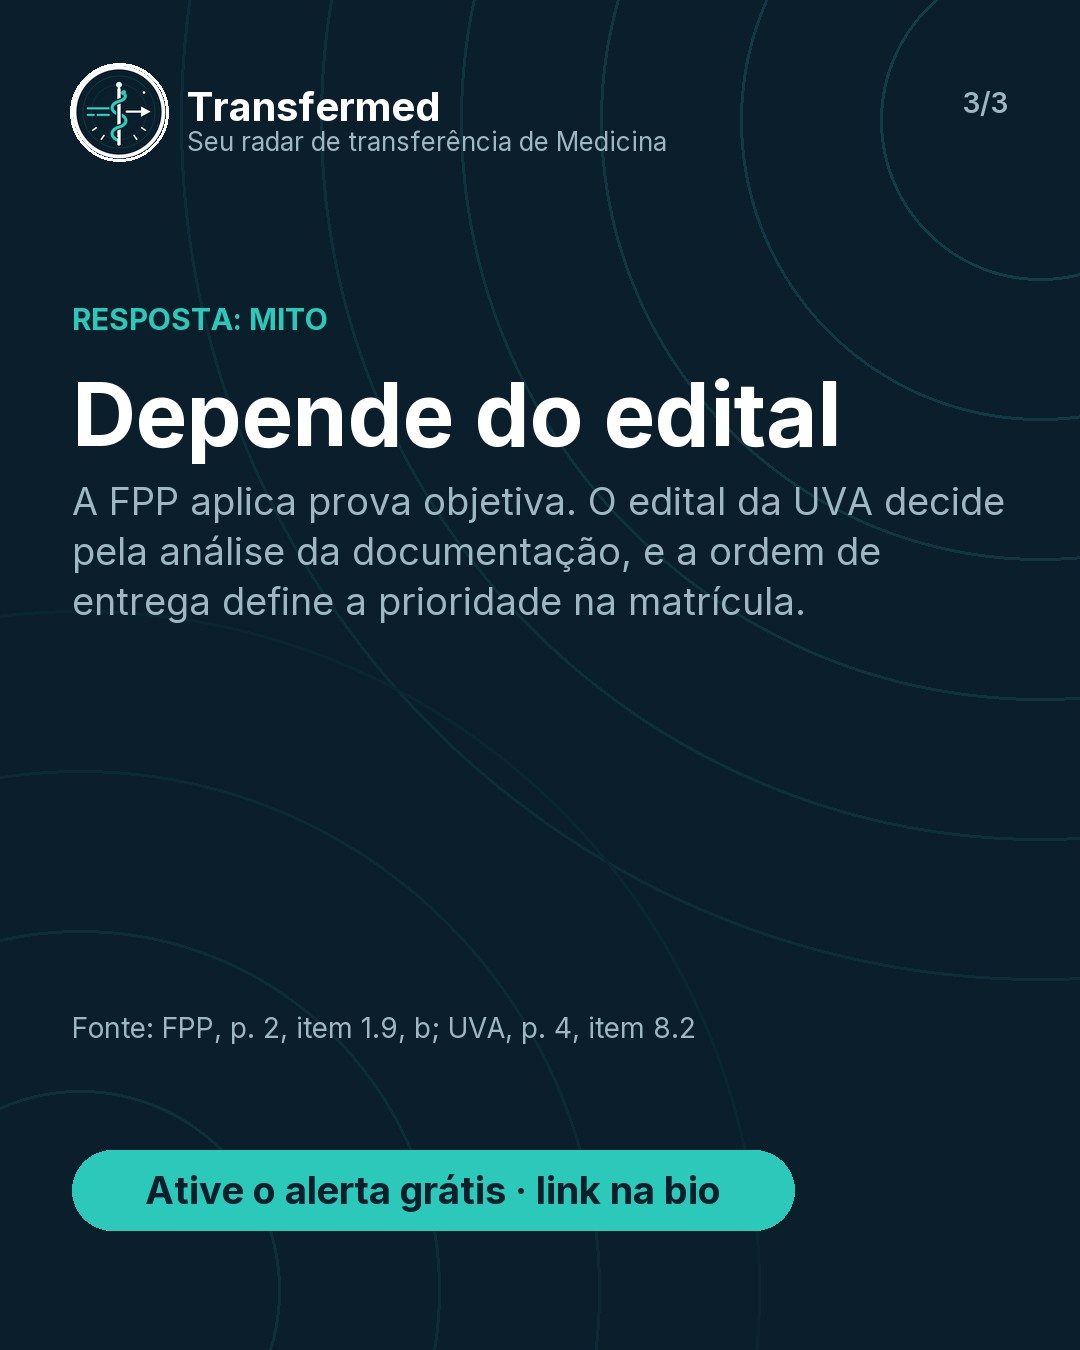
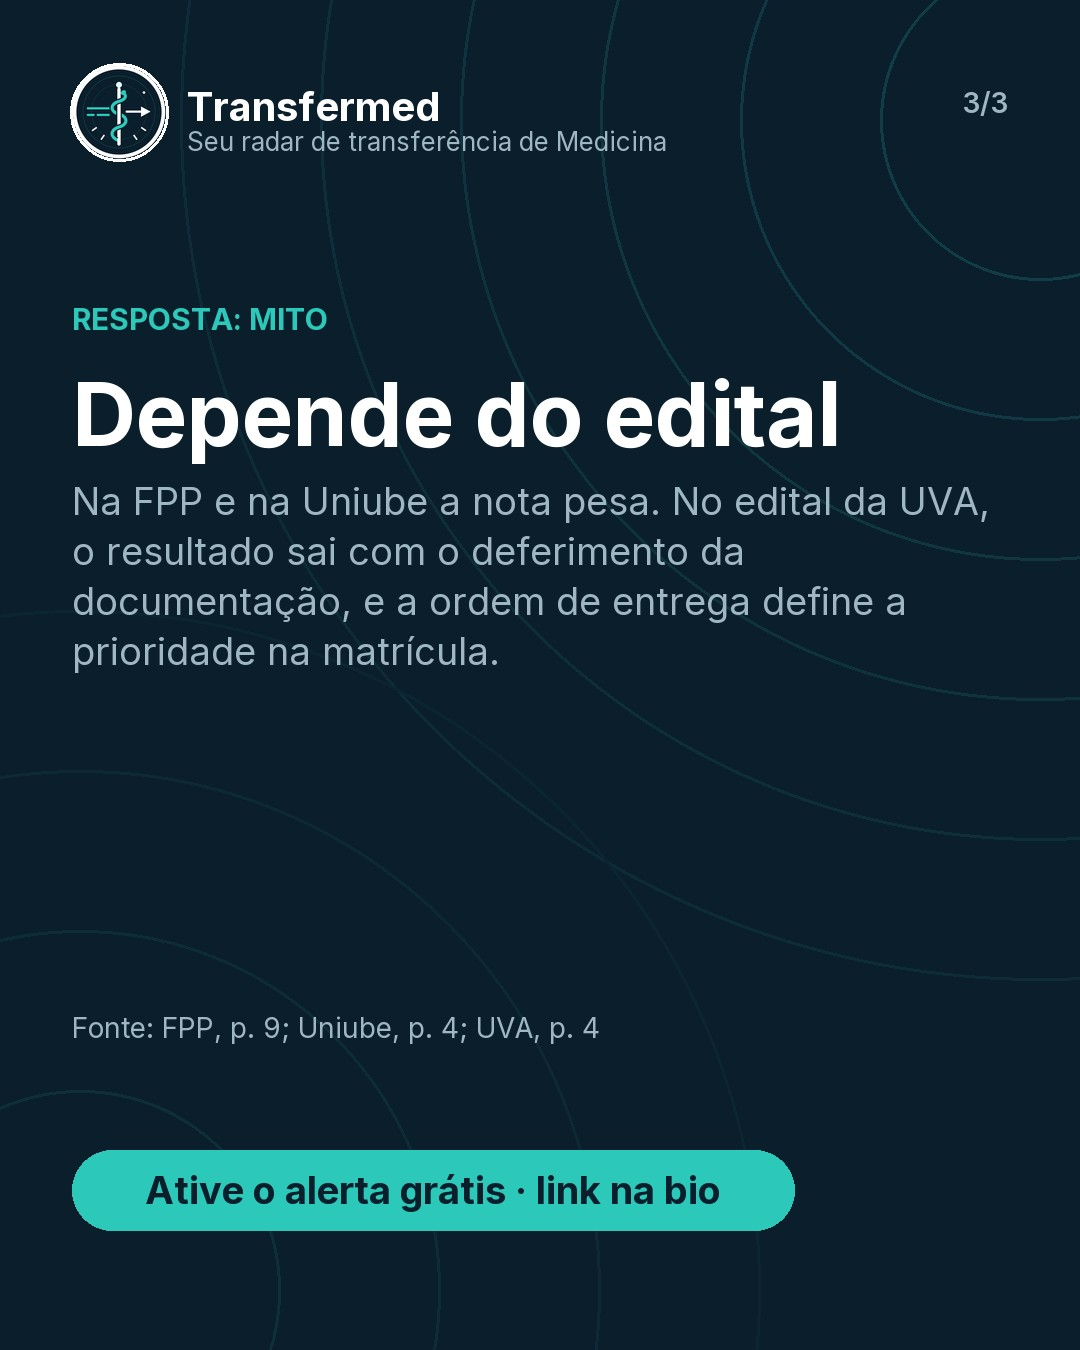
Instagram: gancho sem número vale se for pergunta ou fato com ponto de apoio; 14/11 vira 'Nota alta decide nestes 3 editais?' e 21/11 'Toda prova é presencial?' (UNIFIPA p.5, IDOMED p.7)

Changed region(s): [[0.0611, 0.3422, 0.9167, 0.4978], [0.2444, 0.7467, 0.6417, 0.7778]]

diff --git a/instagram_pilares.py b/instagram_pilares.py
@@ -268,28 +268,31 @@ def pauta_numeros_unifaa(editais, facs, hoje):
                    [(e, sigla, "vagas", "1"), (e, sigla, "raio_x_aprovados", "1")], facs, gancho) | {"pauta": "Raio-X UNIFAA (conferido 12/11)"}
 
 
-def pauta_mito_prova_60(editais, facs, hoje):
-    """Sábado 14/11: "Prova de 60 questões em toda faculdade?" (FPP p. 2, item 1.9, b; UVA p. 4, itens 7.1 e 8.2; lidos nos PDFs em 11 e 12/11/2026)."""
-    fpp, uva = _edital(editais, "528d5ef7e915"), _edital(editais, "1e0e3121b570")
-    _exige(fpp["status"] == "ok" and uva["status"] == "ok" and "60 questões" in fpp["criterio_selecao"] and "deferimento" in uva["criterio_selecao"], "FPP/UVA: critério de seleção mudou")
-    gancho = "Prova de 60 questões em toda faculdade?"
+def pauta_mito_presencial(editais, facs, hoje):
+    """Sábado 21/11: "Toda prova de transferência é presencial?" (UNIFIPA p. 5, item 7.2; IDOMED p. 7, item 6.12; lidos nos PDFs em 12/11/2026)."""
+    fip, ido = _edital(editais, "a7c31a4afe95"), _edital(editais, "6ff70fc5f2f6")
+    _exige(fip["status"] == "ok" and ido["status"] == "ok" and fip["situacao"] == ido["situacao"] == "aberto"
+           and "prova objetiva (20 questões)" in fip["criterio_selecao"] and "prova oral on-line" in ido["criterio_selecao"],
+           "UNIFIPA/IDOMED: o critério de seleção mudou")
+    gancho = "Toda prova de transferência é presencial?"
     telas = [
-        _capa("Mito ou fato?", gancho, "Dois editais abertos, dois jeitos de selecionar os candidatos. Arraste para ver o que cada um prevê e qual é a resposta.", cor="ambar"),
+        _capa("Mito ou fato?", gancho, "Dois editais abertos, duas provas bem diferentes. Arraste para ver onde cada uma é feita e qual é a resposta.", cor="ambar"),
         {"tipo": "cartoes", "cor": "ambar", "kicker": "O que dizem dois editais abertos", "cartoes": [
-            _cartao("FPP · Curitiba (PR)", "Etapa classificatória: prova objetiva presencial", "60 questões", "edital, p. 2, item 1.9, b"),
-            _cartao("UVA · Rio de Janeiro (RJ)", "Resultado imediato ao deferimento da documentação; o edital não prevê prova", "Sem prova", "edital, p. 4, item 7.1")]},
-        _capa("Resposta: mito", "Depende do edital", "A FPP aplica prova objetiva. O edital da UVA decide pela análise da documentação, e a ordem de entrega define a prioridade na matrícula.",
-              "Fonte: FPP, p. 2, item 1.9, b; UVA, p. 4, item 8.2", botao=BOTAO, cor="agua"),
+            _cartao("UNIFIPA · Catanduva (SP)", "Prova objetiva de 20 questões, aplicada no Campus Sede, em Catanduva", "No campus", "edital, p. 5, item 7.2"),
+            _cartao("IDOMED · Alagoinhas (BA)", "Prova oral de nivelamento, on-line, para quem tem carga horária do 5º período em diante", "On-line", "edital, p. 7, item 6.12")]},
+        _capa("Resposta: mito", "Depende do edital", "A UNIFIPA aplica a prova no campus, em Catanduva. No edital da IDOMED, a prova oral de nivelamento é on-line.",
+              "Fonte: UNIFIPA, p. 5, item 7.2; IDOMED, p. 7, item 6.12", botao=BOTAO, cor="agua"),
     ]
-    corpo = ("Mito: nem toda transferência em Medicina tem prova. O edital da FPP (Curitiba/PR) prevê prova objetiva classificatória, de 60 questões (p. 2, item 1.9, b). "
-             "Já o edital da UVA (Rio de Janeiro/RJ) não prevê prova: o resultado é imediato ao deferimento da documentação (p. 4, item 7.1), e a ordem de entrega dos documentos "
-             "define a prioridade na matrícula (p. 4, item 8.2).\n\n"
-             "O critério muda de edital para edital: leia o da faculdade onde você vai se inscrever.")
-    fontes = ["- FPP (Curitiba/PR): `528d5ef7e915`, prova objetiva de 60 questões, classificatória: p. 2, item 1.9, b",
-              "- UVA (Rio de Janeiro/RJ): `1e0e3121b570`, resultado imediato ao deferimento da documentação (item 7.1) e prioridade pela ordem de entrega (item 8.2): p. 4;",
-              "  o PDF retificado de 09/11/2026 só cita \"prova\" no sentido de prova do ENEM (p. 4, itens 6.2 e 6.6), nenhuma prova do processo seletivo"]
-    return _montar("mito-ou-fato", telas, corpo, ["FPP", "UVA"], [], fontes,
-                   [(fpp, "FPP", "criterio_selecao", "2"), (uva, "UVA", "criterio_selecao", "4")], facs, gancho) | {"pauta": "BANCO #11 (conferida em 11/11)"}
+    corpo = ("Mito: nem toda prova de transferência em Medicina é feita no campus. No edital da UNIFIPA (Catanduva/SP), a prova objetiva, de 20 questões, é aplicada no Campus Sede, "
+             "em Catanduva (p. 5, item 7.2). No edital da IDOMED (Alagoinhas/BA), quem tem carga horária compatível com o 5º período em diante, se houver vaga nesses períodos, "
+             "faz uma prova oral de nivelamento, realizada de forma on-line (p. 7, item 6.12).\n\n"
+             "Leia no edital da faculdade onde você vai se inscrever como e onde a prova é feita.")
+    fontes = ["- UNIFIPA (Catanduva/SP): `a7c31a4afe95`, prova objetiva de 20 questões de múltipla escolha (item 7.5, p. 6), aplicada em Catanduva, no Campus Sede: p. 5, item 7.2",
+              "- IDOMED (Alagoinhas/BA): `6ff70fc5f2f6`, prova oral de nivelamento, de forma on-line, para quem tem carga horária compatível com o 5º período em diante, caso haja previsão de vagas "
+              "para esses períodos na unidade: p. 7, item 6.12 (conteúdo: Semiologia/Propedêutica Médica, Anexo 4)",
+              "  o mesmo edital unificado vale para IDOMED Juazeiro (BA); o post cita só Alagoinhas"]
+    return _montar("mito-ou-fato", telas, corpo, ["UNIFIPA", "IDOMED"], [], fontes,
+                   [(fip, "UNIFIPA", "criterio_selecao", "5"), (ido, "IDOMED", "criterio_selecao", "7")], facs, gancho) | {"pauta": "BANCO #11 (conferida em 12/11)"}
 
 
 def pauta_exterior_nem_todo(editais, facs, hoje):
@@ -316,10 +319,10 @@ def pauta_exterior_nem_todo(editais, facs, hoje):
 
 
 # data -> pauta, para os dias fora da semana de segunda a domingo montada acima (13 a 15/11, pedido de 12/11/2026)
-PAUTAS_DO_DIA = {"2026-11-13": pauta_numeros_unifaa, "2026-11-14": pauta_mito_prova_60, "2026-11-15": pauta_exterior_nem_todo}
+PAUTAS_DO_DIA = {"2026-11-13": pauta_numeros_unifaa, "2026-11-14": pauta_mito_prova, "2026-11-15": pauta_exterior_nem_todo}
 
 
-PAUTAS = {1: pauta_armadilha_fpp, 2: pauta_processo_periodo, 3: pauta_curiosidade_unifaccamp, 4: pauta_numeros_unicamp, 5: pauta_mito_prova, 6: pauta_exterior_unoeste}
+PAUTAS = {1: pauta_armadilha_fpp, 2: pauta_processo_periodo, 3: pauta_curiosidade_unifaccamp, 4: pauta_numeros_unicamp, 5: pauta_mito_presencial, 6: pauta_exterior_unoeste}
 
 
 def revisar(r, editais, facs, dia_):

diff --git a/instagram_checagem.py b/instagram_checagem.py
@@ -17,7 +17,8 @@ Devolve a lista de problemas. Lista vazia = pode ir ao ar. Qualquer problema = o
 (e) aspas ou "O edital diz/afirma/exige..." sem o texto literal do PDF (o post só pode citar entre aspas um trecho que venha em `literais`:
     [{"edital", "trecho", "pagina"}], copiado do PDF; os dados do projeto guardam resumos, não o texto literal, então o gerador nunca cita);
 (f) uma página única por fato (nada de "págs. 4, 5, 6, 8 e 9" nem "uma destas páginas");
-(g) o gancho (a chamada principal, `gancho`) traz o fato concreto (número, valor ou data), não "leia com atenção".
+(g) o gancho (a chamada principal, `gancho`) é específico, não "leia com atenção": pode ser sem número (12/11/2026), desde que seja uma pergunta ou um fato
+    concreto e traga um ponto de apoio medível: número, valor ou data; a sigla de uma faculdade dos `fatos`; ou um termo do edital (prova, nota, vaga, taxa, prazo...).
 
 Itens do privado/PADRAO_DE_QUALIDADE.md (seção 3) que dá para medir (10/11/2026); a data de publicação é `data` do post (às 12h) ou `hoje`:
 (P2) nenhum prazo citado vence antes de 48 h após a publicação;
@@ -47,6 +48,7 @@ PROIBIDOS = [
 ASPAS = re.compile(r"[“”\"«»]")
 ATRIBUICAO = re.compile(r"\bo\s+edital\s+(diz|afirma|exige|determina|estabelece|prev[eê]|informa|garante)\b", re.I)
 VARIAS_PAGINAS = re.compile(r"\bp[áa]gs?\.|\buma\s+(?:destas|dessas)\s+p[áa]ginas|\bp[áa]ginas?\s+\d+\s*(?:,|e)\s*\d", re.I)
+GANCHO_TERMO = re.compile(r"\b(prova|provas|nota|notas|vaga|vagas|taxa|taxas|prazo|prazos|edital|editais|inscri[cç][aã]o|per[ií]odo|semestre|hist[oó]rico|documentos?|exterior|resultado|matr[ií]cula)\b", re.I)
 GANCHO_VAGO = re.compile(r"\bleia\b|\bcom aten[cç][aã]o\b|\bdetalhes?\b|\bdescubra\b|\bconfira\b|\bfique (de )?olho\b|\barmadilha\b", re.I)
 
 
@@ -190,8 +192,10 @@ def checar(post, editais, facs, hoje, padrao=True):
     if not gancho:
         problemas.append("(g) o post não registra o gancho (chamada principal)")
     else:
-        if not re.search(r"\d", gancho):
-            problemas.append(f"(g) o gancho “{gancho}” não traz o fato concreto (número, valor ou data)")
+        ancora = re.search(r"\d", gancho) or GANCHO_TERMO.search(gancho) or any(
+            re.search(r"\b" + re.escape(f["faculdade"]) + r"\b", gancho, re.I) for f in fatos if f.get("faculdade"))
+        if not ancora:
+            problemas.append(f"(g) o gancho “{gancho}” não é específico: traga um número, valor, data, a faculdade ou um termo do edital (prova, nota, vaga, taxa, prazo...)")
         if GANCHO_VAGO.search(gancho):
             problemas.append(f"(g) o gancho “{gancho}” é genérico (“leia com atenção”, “detalhes”...): diga o fato")
     if not gancho and re.search(r"leia o edital com aten[cç][aã]o", todo, re.I):

diff --git a/tests/test_instagram_pilares.py b/tests/test_instagram_pilares.py
@@ -31,7 +31,8 @@ class PautasComDadosReais(unittest.TestCase):
         for k, fn in pil.PAUTAS.items():
             r = fn(self.editais, self.facs, SEMANA[k])
             self.assertLessEqual(len(r["gancho"].split()), 8, r["gancho"])   # contagem crua, como o P3 (R$ e valor são 2 palavras)
-            self.assertRegex(r["gancho"], r"\d")
+            if not r["gancho"].endswith("?"):   # sem número só como pergunta (decisão de 12/11/2026); a checagem (g) exige o ponto de apoio
+                self.assertRegex(r["gancho"], r"\d")
             self.assertNotRegex(" ".join(r["textos"]) + r["legenda"], r"[“”\"]", fn.__name__)
 
     def test_todo_fato_tem_pagina_unica_e_toda_tela_com_dado_tem_rodape_de_fonte(self):
@@ -74,6 +75,24 @@ class PautasComDadosReais(unittest.TestCase):
         self.assertEqual({f["edital"] for f in r["fatos"]}, {"528d5ef7e915", "2a698cddcbf7", "1e0e3121b570"})
         self.assertIn("Depende do edital", " ".join(r["textos"]))
         self.assertIn("só entra quem tem nota alta", " ".join(r["textos"]).lower())   # a pergunta do pedido continua na capa
+
+    def test_mito_da_prova_presencial_cita_unifipa_p5_e_idomed_p7_e_nao_repete_faculdades_vizinhas(self):
+        r = pil.pauta_mito_presencial(self.editais, self.facs, SEMANA[5])
+        self.assertEqual({(f["faculdade"], f["pagina"]) for f in r["fatos"]}, {("UNIFIPA", "5"), ("IDOMED", "7")})
+        self.assertEqual(r["gancho"], "Toda prova de transferência é presencial?")
+        self.assertEqual(ck.checar(r, self.editais, self.facs, SEMANA[5]), [])
+        vizinhos = {"UNICAMP", "FPP", "UNOESTE"}   # sexta 20/11 e domingo 22/11
+        self.assertFalse(vizinhos & {f["faculdade"] for f in r["fatos"]})
+        eds = copy.deepcopy(self.editais)
+        next(e for e in eds if e["id"] == "6ff70fc5f2f6")["criterio_selecao"] = "análise do histórico"
+        with self.assertRaises(pil.PautaInvalida):
+            pil.pauta_mito_presencial(eds, self.facs, SEMANA[5])
+
+    def test_dia_14_usa_o_mito_da_nota_alta_e_o_sabado_21_o_da_prova_presencial(self):
+        self.assertIs(pil.PAUTAS_DO_DIA["2026-11-14"], pil.pauta_mito_prova)
+        self.assertIs(pil.PAUTAS[5], pil.pauta_mito_presencial)
+        r = pil.pauta_mito_prova(self.editais, self.facs, "2026-11-14")
+        self.assertEqual(r["gancho"], "Nota alta decide nestes 3 editais?")
 
     def test_unicamp_nao_afirma_que_so_transferencia_externa_e_diz_que_o_processo_passou(self):
         r = pil.pauta_numeros_unicamp(self.editais, self.facs, SEMANA[4])

diff --git a/tests/test_instagram_checagem.py b/tests/test_instagram_checagem.py
@@ -169,6 +169,13 @@ class RegrasEFG(unittest.TestCase):
             with self.subTest(gancho):
                 self.assertTrue(any(x.startswith("(g)") for x in self.ck(gancho=gancho)), gancho)
         self.assertEqual(self.ck(gancho="UNOESTE: taxa R$ 200, inscrição até 07/12"), [])
+        # 12/11/2026: gancho sem número vale se for pergunta ou fato concreto e tiver ponto de apoio (termo do edital ou sigla dos fatos)
+        for gancho in ("Nota alta decide nestes editais?", "Toda prova de transferência é presencial?", "FAC0 aceita curso do exterior?"):
+            with self.subTest(gancho):
+                self.assertEqual(self.ck(gancho=gancho), [], gancho)
+        for gancho in ("Você sabia disso?", "Isso muda tudo para você"):
+            with self.subTest(gancho):
+                self.assertTrue(any("não é específico" in x for x in self.ck(gancho=gancho)), gancho)
 
     def test_gerador_nunca_gera_aspas_pagina_multipla_ou_gancho_vago(self):
         for i in range(7):
